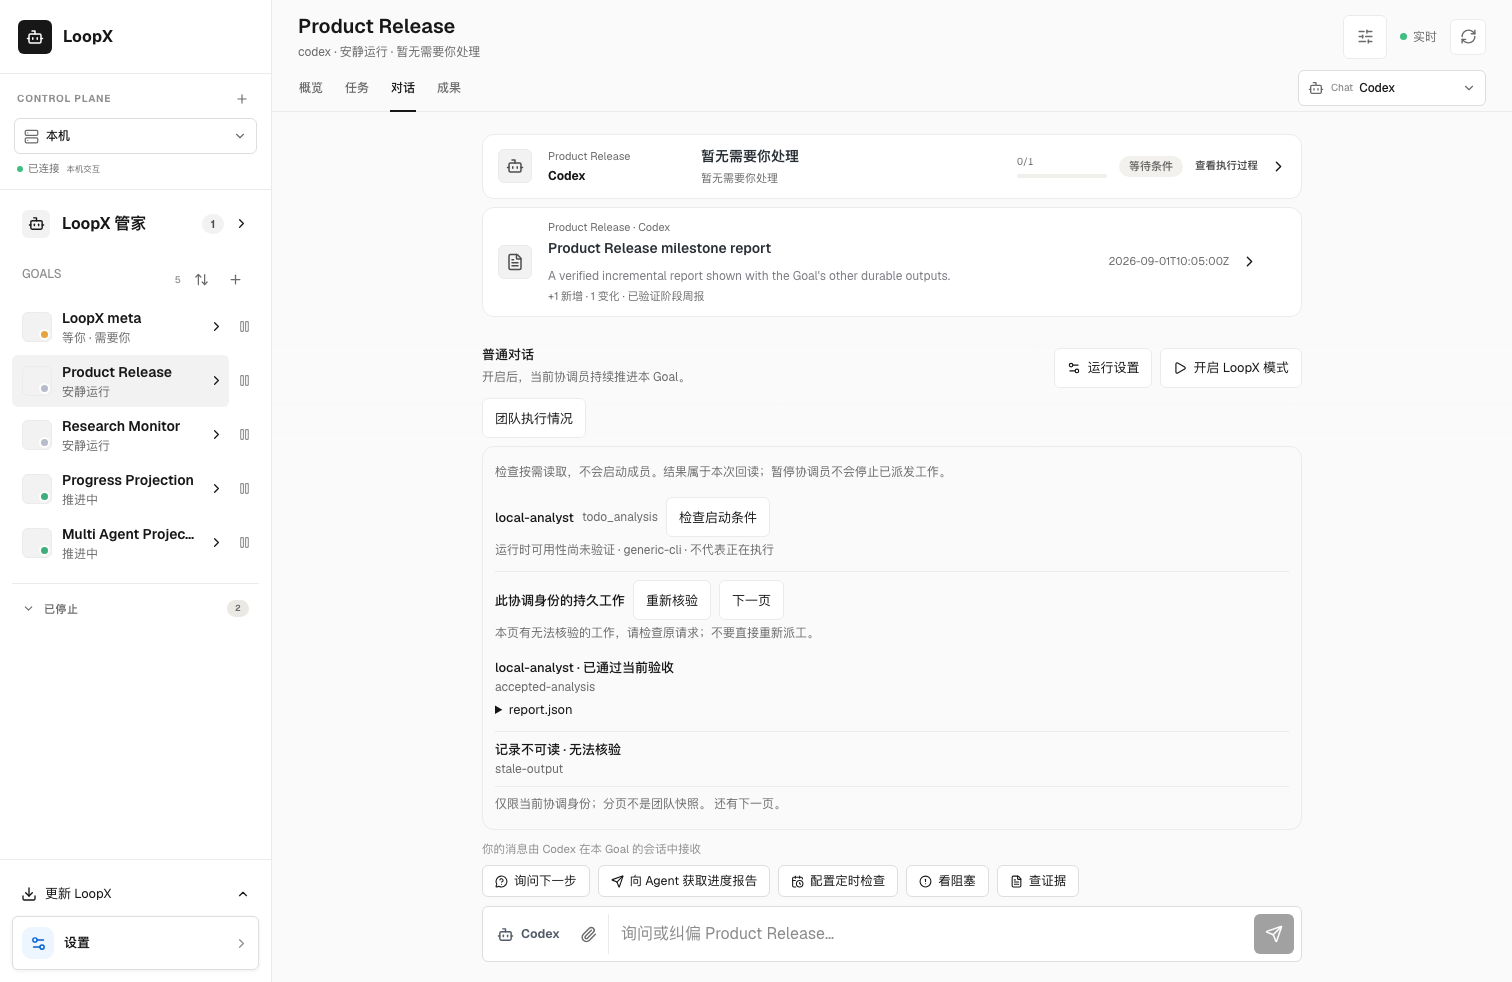
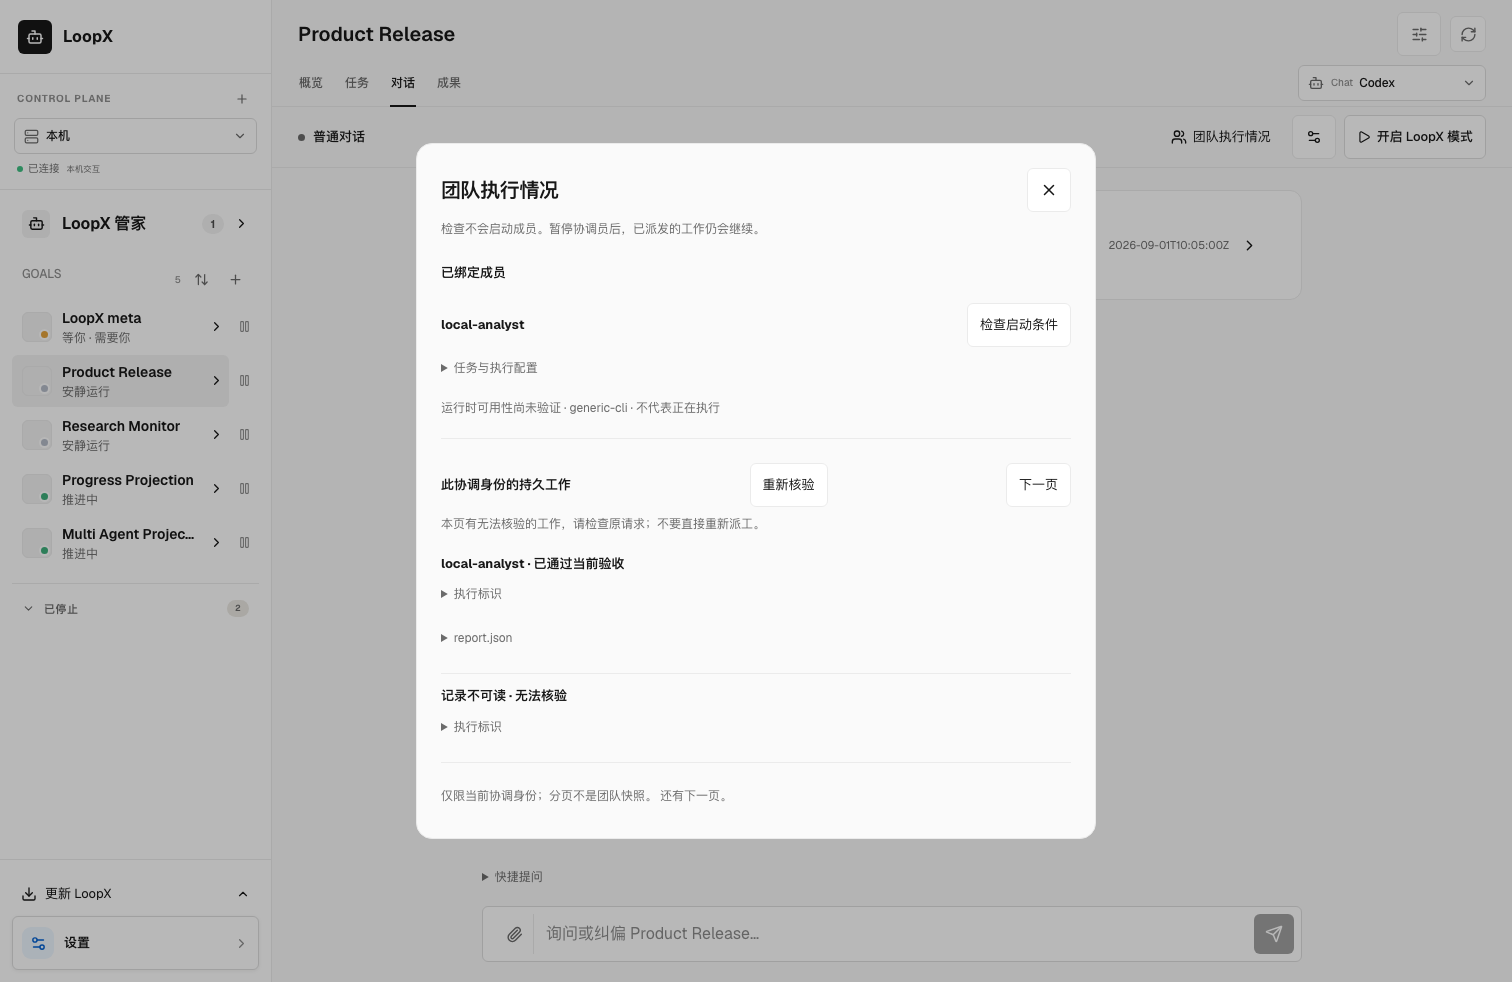
docs(design): require visible value and document approved workspace comparisons

diff --git a/docs/reference/goal-chat-continuation.md b/docs/reference/goal-chat-continuation.md
@@ -8,8 +8,9 @@ and TS task acceptance. A coordinator role alone grants no execution authority.
 
 ## Enable LoopX mode
 
-On a local managed Codex Goal conversation, choose **Enable LoopX** beside the
-composer. First use opens **Settings** in place. Select the registered sender,
+On a local managed Codex Goal conversation, choose **Enable LoopX** in the
+compact bar below the channel header. First use opens **Settings** in a bounded
+dialog. Select the registered sender,
 its existing delegation configuration under the project's `.loopx/config/`, and
 a positive total coordinator token allowance. Save, then enable. Subsequent
 activations reuse these settings. The member roster comes from the authorized
@@ -42,6 +43,8 @@ Turn/profile and pinned acceptance binding without launching work. An unknown
 runtime stays unknown. The panel works while paused and before enabling mode;
 it does not add validation to regular snapshot polling. Existing native threads
 remain intact. This is local operator readback, not a new dispatch surface.
+Close the dialog or press Escape to return focus to its trigger and keep the
+conversation's reading position. Team details do not occupy the initial chat.
 
 Synthetic desktop and narrow-screen examples show unverified runtime,
 unavailable output and an original execution needing recovery:
@@ -49,8 +52,9 @@ unavailable output and an original execution needing recovery:
 ![Team execution on desktop](../assets/personal-workspace/goal-team-execution-desktop.png)
 ![Team execution on a narrow screen](../assets/personal-workspace/goal-team-execution-mobile.png)
 
-The composer shows native state, accumulated coordinator usage and last member
-observations. **Pause** stops the coordinator, while already delegated members
+The compact bar shows native state and the coordinator controls. Settings and
+team inspection disclose accumulated usage and member observations on demand.
+**Pause coordinator** stops the coordinator, while already delegated members
 continue under their independent deadlines and acceptance rules. **Continue**
 resumes the same native Goal and its accumulated usage. **Exit mode** returns to
 ordinary conversation; it does not cancel children or settle the canonical Goal.

diff --git a/docs/development/design.md b/docs/development/design.md
@@ -24,6 +24,33 @@ LoopX should feel:
 The interface should read like excellent technical documentation that also
 communicates a confident product.
 
+### Earn The User's Attention
+
+Every visible element must provide at least one of these:
+
+1. **High-value information** that changes what the user understands or decides.
+2. **An essential interaction** needed at this point in the user's journey.
+3. **Expressive visual presentation** worth seeing: a clear composition, useful
+   visual comparison, or purposeful motion that improves understanding or delight.
+
+This is an OR rule, not a demand for three justifications per element or for
+maximum minimalism. Decorative density, raw protocol fields, duplicated status,
+and a button for every available capability do not earn attention by existing.
+Judge the whole viewport, including information repeated across components.
+
+Before implementation, inventory the visible elements and their value. Keep
+conversation, results, and decisions prominent; consolidate routine activity;
+offer one-step access to relevant controls and details without a chain of pages.
+Do not collapse failures, missing authority, uncertain observations, or actions
+requiring judgment into a reassuring success summary. Read models select facts;
+they must not invent execution, acceptance, or completion from prose or counts.
+
+Review realistic populated, quiet, blocked, and unavailable states on desktop
+and mobile. Show before/after views, name what earns attention and what was
+consolidated, and verify keyboard access and return to the original context.
+Record this in the PR's visual evidence section. The repository first-screen
+preview approval gate still applies.
+
 ## Source Of Truth
 
 - Use this file as the default visual contract for all new LoopX UI work.

diff --git a/docs/architecture/rfcs/intelligent-review-presentation-surfaces-v0.md b/docs/architecture/rfcs/intelligent-review-presentation-surfaces-v0.md
@@ -73,6 +73,18 @@ Minimizing attention does not mean minimizing information or removing human
 judgment. It means maximizing the decision value of each interruption and each
 visible screen:
 
+Each visible element must earn its place through **high-value information,
+essential interaction, or expressive visual presentation** (at least one).
+Evaluate the whole viewport, not isolated components. The canonical development
+and PR evidence workflow is [Earn The User's Attention](../../development/design.md#earn-the-users-attention).
+The bounded workspace application spans Goal conversations, manager home,
+overview, Tasks, outputs and Settings: one-step execution inspection; populated
+home lanes and change-only digests; compact progress and usage; short conversation
+receipts above the unchanged Kanban; output provenance in the existing drawer;
+and configuration consequences kept visible beside the existing preview/apply
+flow. Failures and uncertainty remain prominent. This presentation slice does
+not claim the shared interaction compiler or cross-channel projection is implemented.
+
 - routine, reversible, verified work should stay quiet or complete directly;
 - material progress should be legible without demanding a decision;
 - actual human judgment should arrive as one bounded decision frame;

diff --git a/docs/architecture/rfcs/intelligent-review-presentation-surfaces-v0.zh-CN.md b/docs/architecture/rfcs/intelligent-review-presentation-surfaces-v0.zh-CN.md
@@ -53,6 +53,15 @@ LoopX 优化的是一个联合目标：
 
 最小化 attention 不等于最小化信息，也不等于删除人的判断。它意味着最大化每次打扰、每块可见界面的决策价值：
 
+每个可见元素至少满足 **高价值信息、非常必要的交互、fancy 的展示** 之一。
+按整个视口评估，不能只看单个组件。开发及 PR 证据流程以
+[Earn The User's Attention](../../development/design.md#earn-the-users-attention) 为准。
+有界落地覆盖 Goal 对话、管家首页、概览、任务、成果与设置：一步打开执行详情；
+首页按有内容的分组分配空间，摘要只展示新增运行结果；紧凑呈现进展与用量；
+看板保留原结构，上方只留简短对话回执；成果来源在原详情中查看；配置影响仍与
+原有预览／应用流程一起直接呈现。失败与不确定性保持可见。此展示切片不代表
+共享 interaction compiler 或跨渠道 projection 已完成。
+
 - 日常、可逆、可验证的工作应安静进行或直接完成；
 - 重要进展应清晰可见，但不应伪装成需要决策；
 - 真正需要人判断时，应投影成一个有边界的 decision frame；

diff --git a/.github/PULL_REQUEST_TEMPLATE.md b/.github/PULL_REQUEST_TEMPLATE.md
@@ -80,6 +80,7 @@ even when the underlying access was authorized.
 - After:
 - States and viewports shown:
 - Source data: <!-- choose one: none | synthetic | public_fixture -->
+- Attention review: <!-- Per docs/development/design.md: what earns its place through high-value information, essential interaction, or expressive visual presentation? Name consolidation/removal across the whole viewport, and how failures, uncertainty, and one-step controls remain available. -->
 
 ## Type of Change
 

diff --git a/AGENTS.md b/AGENTS.md
@@ -232,6 +232,9 @@ gates.
 
 ## UI Design Standard
 
+Apply the whole-viewport attention review in `docs/development/design.md`
+("Earn The User's Attention") before implementation and in PR visual evidence.
+
 Before changing or reproducing any LoopX UI, read and follow the repository-root
 `docs/development/design.md`. This includes websites, dashboards, desktop applications,
 documentation, prototypes, screenshots, and framework migrations. When an
